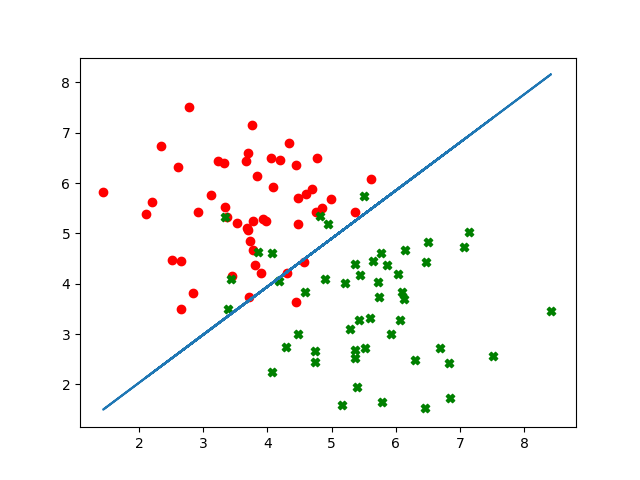
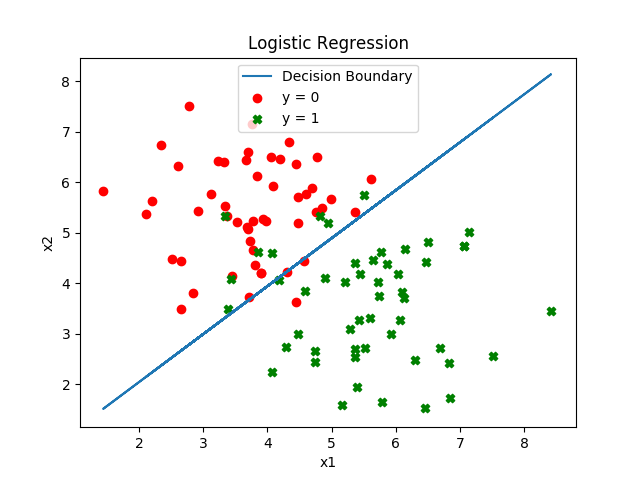
Q.3 corrected

diff --git a/q3.py b/q3.py
@@ -36,13 +36,16 @@ def der_log_likelihood(x, y, theta):
         res = 0
     return z        #z will be an n*1 matrix
 
-def double_der_ll(x, a, b):
+def double_der_ll(x, theta, a, b):
     res = 0
     #a and b can either be 0, 1 or 2
+    theta = np.asarray(theta)
     for i in x:
-        gz = 1/(1+math.exp(-1*np.matmul(theta.T, i)))
-        res = res + (i[a]*i[b])*gz*(1-gz)
-    return -1 * res
+        gz = 1/ (1+math.exp(-1*np.matmul(theta.T, i)))
+        res = res + ((i[a] * i[b]) * gz * (gz - 1))
+        #print (i[a] * i[b]) * gz * (1 - gz), res
+    #print "\n"
+    return res
 
 def hessian (x, y, theta):
     H = np.zeros((len(theta), len(theta)))
@@ -50,7 +53,7 @@ def hessian (x, y, theta):
     sj=0
     while si < len(theta):
         while sj < len(theta):
-            temp = double_der_ll(x, si, sj)
+            temp = double_der_ll(x, theta, si, sj)
             H[si][sj] = temp
             sj = sj+1
         sj = 0
@@ -75,7 +78,7 @@ def newtons(x, y):
         a2 = cost_function(x, y, [theta0[len(theta0)-2], theta1[len(theta1)-2], theta2[len(theta2)-2]])
         
         print temp, ", a1=" , a1
-        
+        #print hessian(x, y, prev_theta)
         if (abs(a1-a2) <= 0):
             print "Answer: ", theta0[len(theta0)-1], theta1[len(theta1)-1], theta2[len(theta2)-1], a1
             return theta0[len(theta0)-1], theta1[len(theta1)-1], theta2[len(theta2)-1]
@@ -116,10 +119,15 @@ if __name__ == "__main__":
             plt.scatter(x1[i], x2[i], marker="o", c="r")
         else:
             plt.scatter(x1[i], x2[i], marker="X", c="g")
-    
+    plt.scatter(x1[0], x2[0], marker="o", c="r", label="y = 0")
+    plt.scatter(x1[-1], x2[-1], marker="X", c="g", label="y = 1")
     xx = []
     for i in range(0, len(x)):
         xx.append(-1*(t1*x1[i]+ t0*x0[i])/t2)    
-    plt.plot(x1, xx)
+    g = plt.plot(x1, xx, label="Decision Boundary")
+    plt.xlabel("x1")
+    plt.ylabel("x2")
+    plt.title("Logistic Regression")
+    plt.legend()
     plt.show()
             
